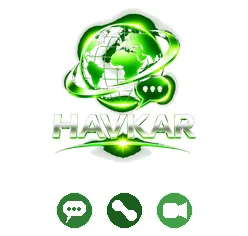
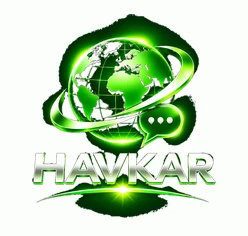
fix(home): exact Owner image3 tile; remove guest auth chrome
- Replace chat.png with exact Owner mint logo (no triple-icon composite)
- Remove Create Account, Log In, and security lock from Home
- Keep auth via Profile & Settings + session check
- Make Messenger tile-label readable like other tiles

diff --git a/index.html b/index.html
@@ -353,6 +353,17 @@ h1 {
     line-height: 1.05;
     letter-spacing: -0.02em;
     text-align: center;
+    z-index: 2;
+    text-shadow:
+        0 0 6px rgba(255, 255, 255, 0.95),
+        0 1px 0 #fff,
+        0 -1px 0 rgba(255, 255, 255, 0.85);
+}
+
+/* Messenger title must stay readable like other tiles (no overlap wash-out). */
+.menu-item[data-havkar-tile="messenger"] .tile-label {
+    bottom: 5%;
+    font-size: 8.2cqw;
 }
 
 .icon-buy,
@@ -526,77 +537,7 @@ h1 {
     font-size: .8rem;
 }
 
-/* =========================
-   CREATE ACCOUNT
-   ========================= */
-
-.enter-button {
-    width: calc(100% - 32px);
-    margin: 8px 16px 0;
-
-    display: flex;
-
-    justify-content: center;
-    align-items: center;
-
-    gap: 12px;
-
-    border: none;
-
-    border-radius: 50px;
-
-    padding: 16px 20px;
-
-    background:
-        linear-gradient(
-            135deg,
-            #16833c 0%,
-            #35ad5a 100%
-        );
-
-    color: #ffffff;
-
-    font-size: 1.02rem;
-    font-weight: 800;
-
-    cursor: pointer;
-
-    box-shadow:
-        0 10px 24px
-        rgba(32,130,59,.25),
-
-        inset 0 1px 0
-        rgba(255,255,255,.25);
-
-    transition:
-        transform .2s ease,
-        box-shadow .2s ease;
-}
-
-.enter-button:hover {
-    transform: translateY(-2px);
-
-    box-shadow:
-        0 13px 30px
-        rgba(32,130,59,.32);
-}
-
-.enter-button:active {
-    transform: scale(.985);
-}
-
-.enter-icon {
-    font-size: 1.25rem;
-}
-
-.enter-arrow {
-    font-size: 1.35rem;
-    margin-left: auto;
-}
-
-/* =========================
-   LOGIN
-   ========================= */
+/* Guest Create Account / Log In chrome removed from Home (auth via Profile & Settings). */
 
 .account-panel { margin: 14px 0 10px; padding: 12px 14px; border: 1px solid #cbe4d0; background: #f4fbf5; border-radius: 18px; text-align: center; }
 .account-panel p { overflow-wrap: anywhere; font-size: .83rem; margin: 0; color: #315c3d; }
@@ -694,78 +635,6 @@ h1 {
     color: rgba(255, 255, 255, 0.85);
     line-height: 1;
 }
-.login {
-    margin-top: 13px;
-    margin-bottom: 17px;
-    margin-left: 16px;
-    margin-right: 16px;
-
-    text-align: center;
-
-    color: #54705b;
-
-    font-size: .84rem;
-    font-weight: 600;
-}
-
-.login a {
-    color: #21863f;
-
-    font-weight: 800;
-
-    text-decoration: none;
-}
-
-.login a:hover {
-    text-decoration: underline;
-}
-
-/* =========================
-   SECURITY
-   ========================= */
-
-.security-badge {
-    display: flex;
-
-    justify-content: center;
-    align-items: center;
-
-    gap: 8px;
-
-    color: #54705b;
-
-    font-size: .78rem;
-    font-weight: 600;
-
-    text-align: center;
-}
-
-.security-icon {
-    width: 26px;
-    height: 26px;
-
-    display: flex;
-
-    justify-content: center;
-    align-items: center;
-
-    border-radius: 50%;
-
-    background: #31a653;
-
-    color: white;
-
-    font-size: .82rem;
-
-    box-shadow:
-        0 5px 12px
-        rgba(46,125,50,.18);
-}
-
-.security-lock {
-    font-size: .8rem;
-}
-
 /* =========================
    SMALL PHONES
    ========================= */
@@ -882,11 +751,6 @@ html[data-havkar-entry="home"] .havkar-legal-footer {
     .about-description {
         font-size: .63rem;
     }
-
-    .enter-button {
-        font-size: .94rem;
-        padding: 14px;
-    }
 }
 
 /* =========================
@@ -985,7 +849,7 @@ html[data-havkar-entry="home"] .havkar-legal-footer {
         </a>
 
         <a class="menu-item" href="chat.html" data-havkar-tile="messenger">
-            <img src="assets/home/chat.png?v=owner-tile-triple-20261126" alt="HAVKAR Messenger" width="252" height="236">
+            <img src="assets/home/chat.png?v=owner-image3-exact-20261126" alt="HAVKAR Messenger" width="248" height="236">
             <span class="tile-label" data-i18n="Messenger">Messenger</span>
         </a>
 
@@ -1022,47 +886,14 @@ html[data-havkar-entry="home"] .havkar-legal-footer {
     </a>
 
 
-    <!-- =========================
-         CREATE NEW ACCOUNT
-         ========================= -->
-
-    <button
-        id="guestSignup"
-        class="enter-button"
-        type="button"
-        onclick="window.location.href='signup.html'"
-        aria-label="Create New Account"
-    >
-        <i class="fas fa-user-plus enter-icon" aria-hidden="true"></i>
-        <span data-i18n="createAccount">Create New Account</span>
-        <span class="enter-arrow" aria-hidden="true">›</span>
-    </button>
-
-
-    <!-- =========================
-         LOGIN
-         ========================= -->
-
-    <div class="login" id="guestLogin">
-        <span data-i18n="alreadyAccount">Already have an account?</span>
-        <a href="login.html" data-i18n="login">Log In</a>
-    </div>
+    <!-- Guest Create Account / Log In / security lock removed from Home.
+         Auth remains available via Profile & Settings (profile.html → login/signup).
+         Session check below is preserved (no auth deletion). -->
 
     <div class="account-panel" id="signedInPanel" hidden>
         <!-- Never display private account emails on the public Home surface.
              Settings CTA is the dedicated home-settings-bar above — do not duplicate. -->
         <p id="signedInLabel" data-i18n="Signed in">Signed in</p>
-    </div>
-
-
-    <!-- =========================
-         SECURITY
-         ========================= -->
-
-    <div class="security-badge" aria-label="Safe Secure Trusted">
-        <span class="security-icon">✓</span>
-        <span data-i18n="security">Safe • Secure • Trusted</span>
-        <span class="security-lock" aria-hidden="true">🔒</span>
     </div>
 
 </main>
@@ -1078,13 +909,10 @@ const supabase = createClient(
   window.HAVKAR_SUPABASE_CONFIG.publishableKey,
   { auth: { persistSession: true, autoRefreshToken: true, detectSessionInUrl: true } }
 );
-const guestSignup = document.getElementById("guestSignup");
-const guestLogin = document.getElementById("guestLogin");
 const signedInPanel = document.getElementById("signedInPanel");
 const signedInLabel = document.getElementById("signedInLabel");
 function updateAccount(user) {
-  guestSignup.hidden = !!user;
-  guestLogin.hidden = !!user;
+  // Home no longer exposes guest signup/login chrome; Profile & Settings remains the entry.
   if (signedInPanel) signedInPanel.hidden = !user;
   // Public Home must never render personal emails (Gmail or otherwise).
   if (signedInLabel) {
@@ -1096,9 +924,6 @@ function updateAccount(user) {
     signedInLabel.textContent = user ? i18nText : "";
   }
 }
-// Avoid briefly displaying guest actions until the stored session is checked.
-guestSignup.hidden = true;
-guestLogin.hidden = true;
 if (signedInPanel) signedInPanel.hidden = true;
 try {
   const { data, error } = await supabase.auth.getSession();
@@ -1106,8 +931,6 @@ try {
   updateAccount(data.session?.user || null);
 } catch (error) {
   console.error("HAVKAR session check failed", error);
-  guestSignup.hidden = false;
-  guestLogin.hidden = false;
   if (signedInPanel) signedInPanel.hidden = true;
 }
 supabase.auth.onAuthStateChange((_event, session) => updateAccount(session?.user || null));
